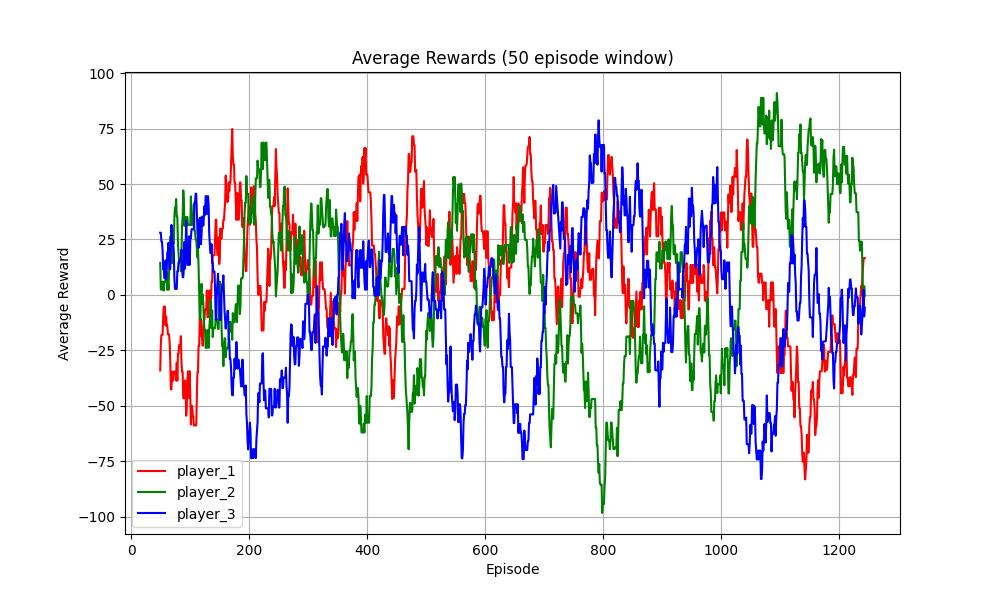
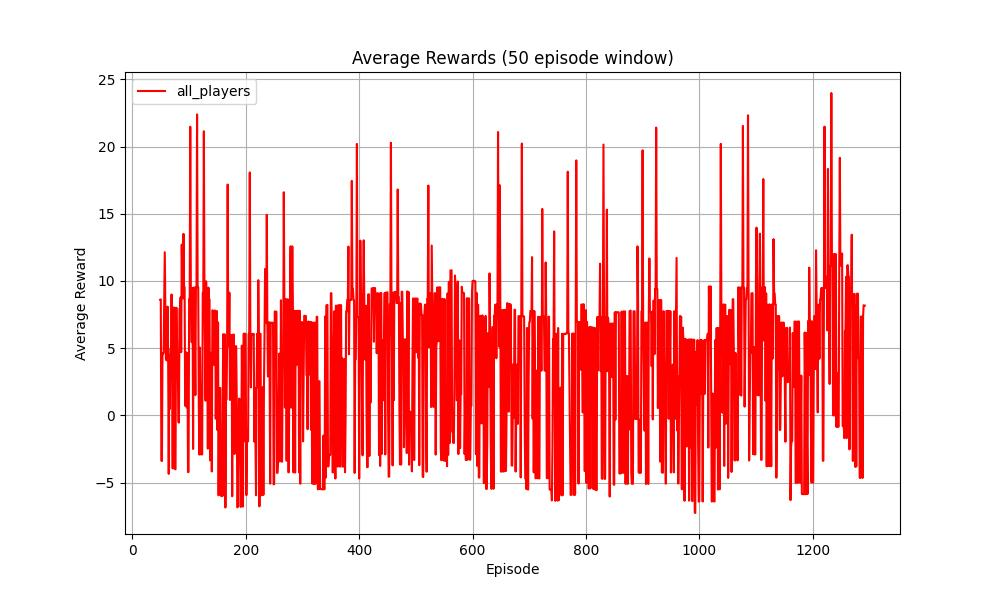
win proba added to state and Reward based on hand strengh - Improved visualization save interval configuration

diff --git a/poker_game.py b/poker_game.py
@@ -1081,75 +1081,97 @@ class PokerGame:
                         break
         state.extend(last_actions)
 
+        # 12. Win probability estimation
+        active_players = [p for p in self.players if p.is_active]
+        num_opponents = len(active_players) - 1
+        
+        if num_opponents <= 0:
+            win_prob = 1.0  # No opponents left
+        else:
+            # Get hand strength
+            hand_strength = self._evaluate_hand_strength(current_player)
+            
+            # Adjust for number of opponents (2-3)
+            win_prob = hand_strength ** num_opponents
+            
+            # Pre-flop specific adjustment (using Sklansky-Chubukov approximation)
+            if self.current_phase == GamePhase.PREFLOP:
+                # Reduce confidence in pre-flop estimates
+                win_prob *= 0.8
+        
+        state.append(win_prob)
+
         return state
 
     def step(self, action: PlayerAction) -> Tuple[List[float], float]:
         """
-        Execute une action et retourne le nouvel état et la récompense
+        Execute an action and return the new state with the calculated reward.
+        The reward is now adjusted based on the hand strength so that the agent is
+        evaluated relative to its capacity. For example, if the agent has a bad hand,
+        folding will yield a positive reward while taking aggressive actions will be penalized.
         """
         current_player = self.players[self.current_player_idx]
         initial_stack = current_player.stack
         initial_pot = self.pot
-        position_reward = 0.1 * (1 - self.current_player_idx/len(self.players))  # Récompense la position tardive
-        
-        # Évaluer la force de la main actuelle
+        position_reward = 0.1 * (1 - self.current_player_idx / len(self.players))  # Reward for later positions
+
+        # Evaluate the current hand strength (normalized between 0 and 1)
         hand_strength = self._evaluate_hand_strength(current_player)
-        
-        # Process the action in the game state
-        self.process_action(current_player, action)
-        
-        # Calculate reward based on action type
-        if action == PlayerAction.RAISE or action == PlayerAction.ALL_IN:
-            bet_size = self.current_bet if action == PlayerAction.RAISE else current_player.stack
-            pot_odds = bet_size / (self.pot + bet_size)
-            
-            if hand_strength > pot_odds:
-                reward = 0.2  # Bonne relance basée sur les cotes du pot
+
+        # New reward structure based on hand strength and chosen action
+        if action in [PlayerAction.RAISE, PlayerAction.ALL_IN]:
+            if hand_strength >= 0.7:
+                reward = 0.3  # Aggressive action rewarded when hand is strong
+            elif hand_strength >= 0.5:
+                reward = 0.1  # Moderate reward when hand is decent
             else:
-                reward = -0.2  # Mauvaise relance (bluff)
-            
+                reward = -0.3  # Aggressive play with a weak hand is penalized
+
         elif action == PlayerAction.CALL:
-            pot_odds = self.current_bet / (self.pot + self.current_bet)
-            
-            if hand_strength > pot_odds:
-                reward = 0.1  # Call correct basé sur les cotes du pot
+            if hand_strength >= 0.7:
+                reward = 0.1  # Calling when very strong is suboptimal but still acceptable
+            elif hand_strength >= 0.4:
+                reward = 0.05  # Slight reward when hand is mix of good and bad
             else:
-                reward = -0.1  # Mauvais call
-            
+                reward = -0.1  # Calling with a weak hand is discouraged
+
         elif action == PlayerAction.FOLD:
-            if hand_strength < 0.3:  # Fold avec une main faible
-                reward = 0.1
+            if hand_strength < 0.3:
+                reward = 0.3  # Good decision: fold when hand is very weak
+            elif hand_strength < 0.5:
+                reward = 0.1  # Marginally good decision for moderately weak hand
             else:
-                reward = -0.2  # Fold avec une main forte
-            
+                reward = -0.2  # Penalize folding when hand is actually strong
+
         elif action == PlayerAction.CHECK:
-            if hand_strength > 0.7:  # Check avec une main forte (slow play)
-                reward = 0.15
-            elif hand_strength < 0.3:  # Check avec une main faible
-                reward = 0.1
+            if hand_strength >= 0.7:
+                reward = 0.2  # Reward slow playing a strong hand
             else:
-                reward = 0  # Check neutre avec une main moyenne
-        
-        # Récompenses additionnelles basées sur le résultat
+                reward = 0.0  # Neutral reward if checking with a moderate or weak hand
+
+        # Additional position-based bonus or penalty
+        reward += position_reward
+
+        # Process the action in the game state (this call will update the game state)
+        self.process_action(current_player, action)
+
+        # After the state update, handle the showdown bonus/penalty
         if self.current_phase == GamePhase.SHOWDOWN:
             active_players = [p for p in self.players if p.is_active]
             if len(active_players) == 1 and active_players[0] == current_player:
-                # Gagné en faisant fold tous les autres
+                # Won by folding all others
                 stack_change = (current_player.stack - initial_stack) / self.big_blind
-                reward += 1.0 + (0.1 * stack_change)  # Bonus basé sur les gains
+                reward += 1.0 + (0.1 * stack_change)
             else:
-                # Showdown atteint - évaluer les mains
+                # Evaluate showdown hands
                 player_hands = [(p, self.evaluate_hand(p)) for p in active_players]
                 player_hands.sort(key=lambda x: (x[1][0].value, x[1][1]), reverse=True)
                 if player_hands[0][0] == current_player:
                     stack_change = (current_player.stack - initial_stack) / self.big_blind
-                    reward += 1.5 + (0.1 * stack_change)  # Bonus plus important pour gagner au showdown
+                    reward += 1.5 + (0.1 * stack_change)
                 else:
-                    reward -= 1.0  # Pénalité pour perdre au showdown
-        
-        # Ajouter la récompense de position
-        reward += position_reward
-        
+                    reward -= 1.0
+
         return self.get_state(), reward
 
     def _evaluate_hand_strength(self, player) -> float:
@@ -1206,6 +1228,10 @@ class PokerGame:
                         running = False
                     if event.key == pygame.K_SPACE:
                         self.start_new_hand()
+                    if event.key == pygame.K_r:
+                        self.reset_game()
+                    if event.key == pygame.K_s:
+                        print(self.get_state())
                 
                 self.handle_input(event)
                 

diff --git a/poker_train.py b/poker_train.py
@@ -16,15 +16,16 @@ import subprocess
 from visualization import TrainingVisualizer, plot_rewards, plot_winning_stats
 
 # Hyperparameters
-EPISODES = 3000
+EPISODES = 10000
 GAMMA = 0.9985
 ALPHA = 0.003
 EPS_DECAY = 0.9998
-STATE_SIZE = 31
+STATE_SIZE = 32
 RENDERING = False
 FPS = 1
 WINDOW_SIZE = 50  # Pour la moyenne mobile
 PLOT_UPDATE_INTERVAL = 10  # Mettre à jour les graphiques tous les X épisodes
+SAVE_INTERVAL = 500 # Sauvegarder les graphiques tous les X épisodes
 
 def configure_git():
     """Configure Git to use merge strategy for pulls"""
@@ -156,7 +157,7 @@ def main_training_loop(agent_list, episodes, rendering, render_every):
     winning_history = {}
     
     # Créer le visualiseur
-    visualizer = TrainingVisualizer()
+    visualizer = TrainingVisualizer(SAVE_INTERVAL)
     
     try:
         # Créer les dossiers nécessaires

diff --git a/visualization.py b/visualization.py
@@ -2,12 +2,9 @@ import matplotlib
 matplotlib.use('Agg')  # Use Agg backend that doesn't require GUI
 import matplotlib.pyplot as plt
 import numpy as np
-from typing import List, Dict
-import seaborn as sns
-import os
 
 class TrainingVisualizer:
-    def __init__(self):
+    def __init__(self, save_interval: int = 1000):
         # Create three subplots
         self.fig, (self.ax1, self.ax2, self.ax3) = plt.subplots(3, 1, figsize=(12, 12))
         
@@ -64,7 +61,7 @@ class TrainingVisualizer:
         
         # Add counter for file saves
         self.save_counter = 0
-        self.save_interval = 100  # Save every 100 updates
+        self.save_interval = save_interval // 10
 
     def update_action_distribution(self, agent_name, action):
         """Update action distribution for an agent"""

diff --git a/main.py b/main.py
@@ -6,7 +6,7 @@ set_seed(42)
 
 agent_list = []
 
-
+"""
 # Create the Q-learning agents for 3 players
 for i in range(3):  # Changed from 6 to 3
     agent = PokerAgent(
@@ -24,15 +24,15 @@ for i in range(3):  # Changed from 6 to 3
 # Create the Q-learning agent (and duplicate it 6 times)
 agent = PokerAgent(
     state_size=STATE_SIZE,
-    action_size=[5], # [check, call, fold, raise, all-in]
+    action_size=5, # [check, call, fold, raise, all-in]
     gamma=GAMMA,
     learning_rate=ALPHA,
     load_model=False,
 )
 agent.name = "all_players"
-for _ in range(6):
+for _ in range(3):
     agent_list.append(agent)
-"""
+
 
 # Start the training loop
 main_training_loop(agent_list, episodes=EPISODES, rendering=RENDERING, render_every=1)
